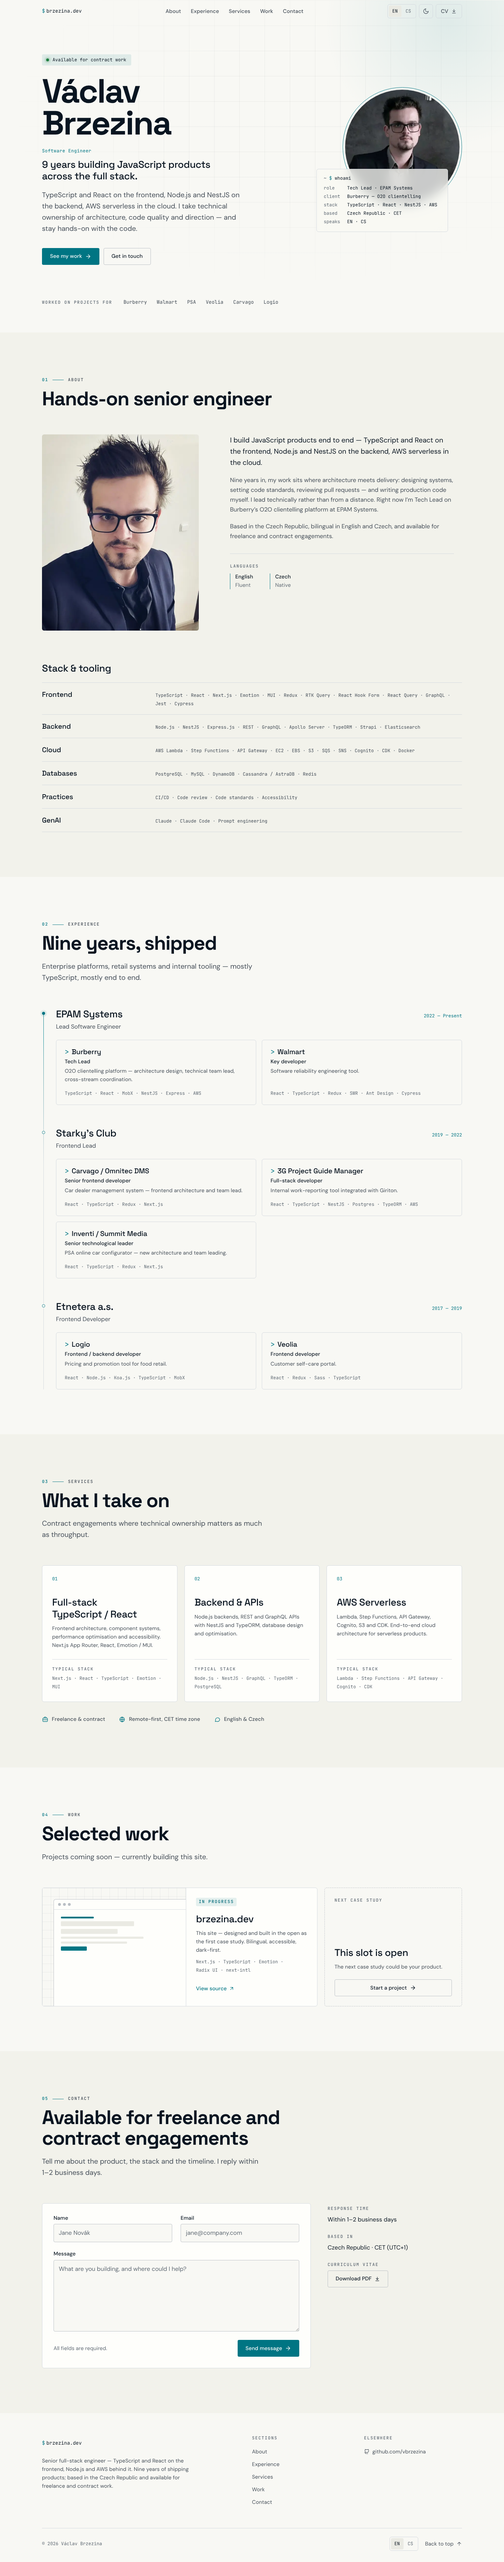
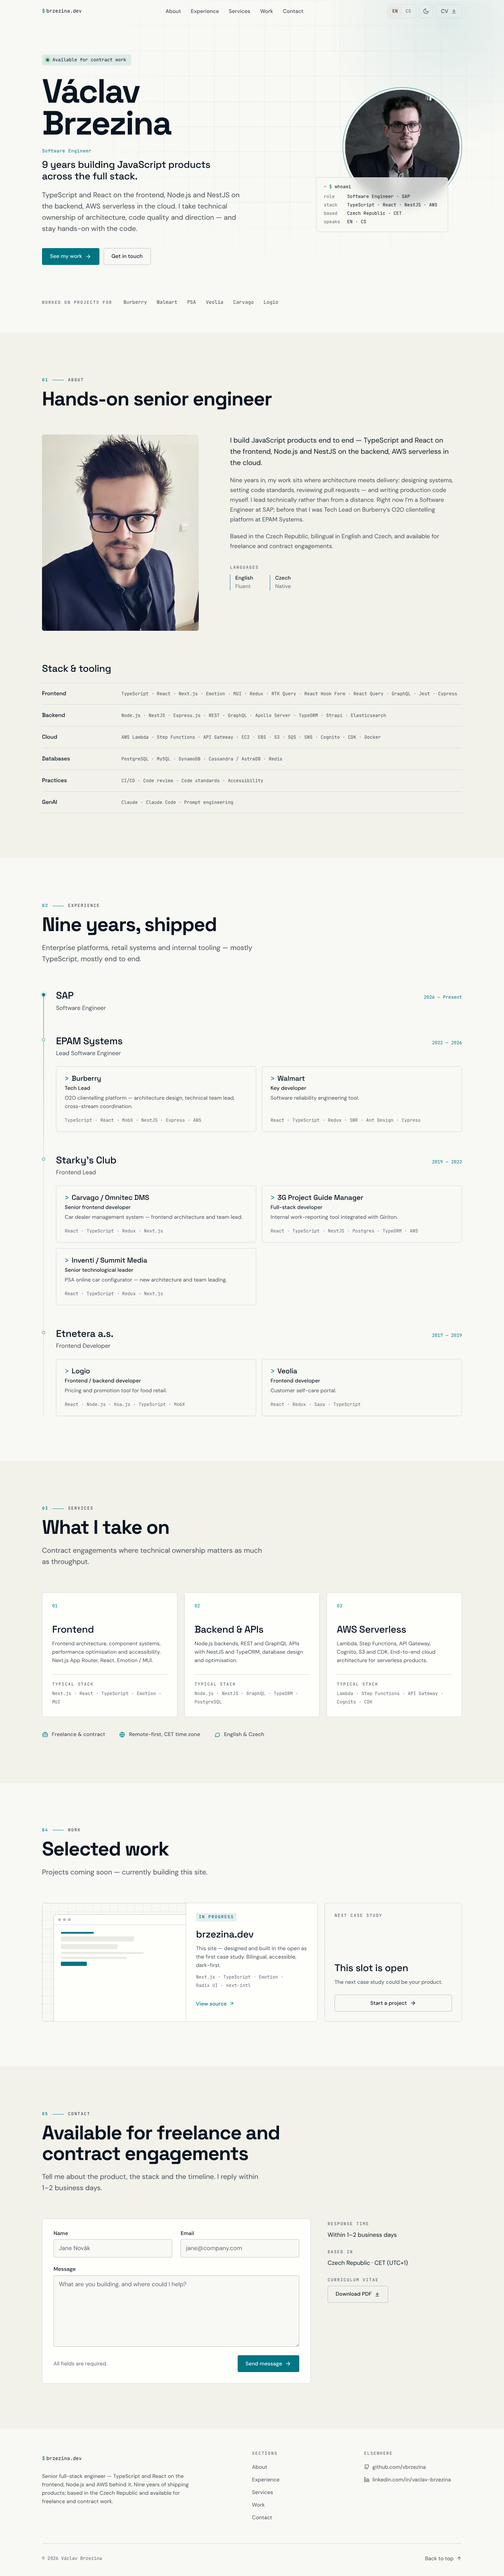
feat(content): add SAP as current role, LinkedIn link; drop footer locale switch
- Experience: SAP — Software Engineer, 2026–present (no projects listed
  yet); EPAM closed at 2026. Timeline skips the project grid when an
  employer has none
- whoami card: role "Software Engineer · SAP"; outdated client row removed
- About bio mentions SAP, with Burberry/EPAM as the previous role (EN/CS)
- LinkedIn added to the footer (with icon); the contact error fallback
  now points to LinkedIn instead of GitHub
- Footer no longer repeats the language switch — header only, like the
  theme toggle

Claude-Session: https://claude.ai/code/session_013mW6ZWY6digWVBj5YtAxDN

diff --git a/src/components/sections/Experience.tsx b/src/components/sections/Experience.tsx
@@ -178,23 +178,25 @@ export function Experience() {
                 </EmployerHeader>
               </Reveal>
 
-              <Projects role="list">
-                {employer.projects.map((project, i) => (
-                  <Reveal key={project.id} as="li" delay={i * 70}>
-                    <Project>
-                      <Client>
-                        <span aria-hidden="true">&gt;</span>
-                        {project.client}
-                      </Client>
-                      <ProjectRole>{t(`projects.${project.id}.role`)}</ProjectRole>
-                      <ProjectDescription>{t(`projects.${project.id}.description`)}</ProjectDescription>
-                      <ProjectStack>
-                        <StackList items={project.stack} label={t('stackLabel')} />
-                      </ProjectStack>
-                    </Project>
-                  </Reveal>
-                ))}
-              </Projects>
+              {employer.projects.length > 0 && (
+                <Projects role="list">
+                  {employer.projects.map((project, i) => (
+                    <Reveal key={project.id} as="li" delay={i * 70}>
+                      <Project>
+                        <Client>
+                          <span aria-hidden="true">&gt;</span>
+                          {project.client}
+                        </Client>
+                        <ProjectRole>{t(`projects.${project.id}.role`)}</ProjectRole>
+                        <ProjectDescription>{t(`projects.${project.id}.description`)}</ProjectDescription>
+                        <ProjectStack>
+                          <StackList items={project.stack} label={t('stackLabel')} />
+                        </ProjectStack>
+                      </Project>
+                    </Reveal>
+                  ))}
+                </Projects>
+              )}
             </Employer>
           ))}
         </Timeline>

diff --git a/src/components/layout/SiteFooter.tsx b/src/components/layout/SiteFooter.tsx
@@ -2,7 +2,7 @@
 
 import styled from '@emotion/styled';
 import { useTranslations } from 'next-intl';
-import { Icon, LocaleSwitch, Logo } from '@/components/ui';
+import { Icon, Logo } from '@/components/ui';
 import { SECTION_IDS, site } from '@/data/site';
 import { type } from '@/styles/typography';
 import { Container } from './Container';
@@ -107,6 +107,12 @@ export function SiteFooter() {
                   {site.githubLabel}
                 </FooterLink>
               </li>
+              <li>
+                <FooterLink href={site.linkedinUrl} target="_blank" rel="noopener noreferrer">
+                  <Icon name="linkedin" size={16} />
+                  {site.linkedinLabel}
+                </FooterLink>
+              </li>
             </LinkList>
           </div>
         </Top>
@@ -114,7 +120,6 @@ export function SiteFooter() {
         <Bottom>
           <Copyright>{t('copyright')}</Copyright>
           <BottomActions>
-            <LocaleSwitch />
             <FooterLink href="#top">
               {t('backToTop')}
               <Icon name="arrowUp" size={16} />

diff --git a/src/data/experience.ts b/src/data/experience.ts
@@ -17,10 +17,18 @@ export interface Employer {
 
 export const EXPERIENCE: readonly Employer[] = [
   {
+    id: 'sap',
+    company: 'SAP',
+    start: 2026,
+    end: null,
+    // Product details not public yet — add projects here when they can be shared.
+    projects: [],
+  },
+  {
     id: 'epam',
     company: 'EPAM Systems',
     start: 2022,
-    end: null,
+    end: 2026,
     projects: [
       { id: 'burberry', client: 'Burberry', stack: ['TypeScript', 'React', 'MobX', 'NestJS', 'Express', 'AWS'] },
       { id: 'walmart', client: 'Walmart', stack: ['React', 'TypeScript', 'Redux', 'SWR', 'Ant Design', 'Cypress'] },

diff --git a/src/components/sections/Contact.tsx b/src/components/sections/Contact.tsx
@@ -341,7 +341,7 @@ export function Contact() {
                     <SubmitError role="alert">
                       {t.rich('form.error', {
                         link: (chunks) => (
-                          <a href={site.githubUrl} target="_blank" rel="noopener noreferrer">
+                          <a href={site.linkedinUrl} target="_blank" rel="noopener noreferrer">
                             {chunks}
                           </a>
                         ),

diff --git a/src/components/sections/Hero.tsx b/src/components/sections/Hero.tsx
@@ -295,8 +295,6 @@ export function Hero() {
                 <Facts aria-label={t('whoami.label')}>
                   <dt>{t('whoami.role')}</dt>
                   <dd>{t('whoami.roleValue')}</dd>
-                  <dt>{t('whoami.client')}</dt>
-                  <dd>{t('whoami.clientValue')}</dd>
                   <dt>{t('whoami.stack')}</dt>
                   <dd>{WHOAMI.stack.join(' · ')}</dd>
                   <dt>{t('whoami.based')}</dt>

diff --git a/src/data/site.ts b/src/data/site.ts
@@ -6,6 +6,8 @@ export type SectionId = (typeof SECTION_IDS)[number];
 export const site = {
   githubUrl: 'https://github.com/vbrzezina',
   githubLabel: 'github.com/vbrzezina',
+  linkedinUrl: 'https://www.linkedin.com/in/vaclav-brzezina/',
+  linkedinLabel: 'linkedin.com/in/vaclav-brzezina',
   repoUrl: 'https://github.com/vbrzezina/brzezina.dev',
   // The PDF itself still needs adding to public/ (see redesign spec §8).
   cvUrl: '/cv.pdf',

diff --git a/src/components/ui/Icon.tsx b/src/components/ui/Icon.tsx
@@ -22,6 +22,13 @@ const PATHS = {
     </>
   ),
   check: <path d="M20 6 9 17l-5-5" />,
+  linkedin: (
+    <>
+      <path d="M16 8a6 6 0 0 1 6 6v7h-4v-7a2 2 0 0 0-4 0v7h-4v-7a6 6 0 0 1 6-6Z" />
+      <rect x="2" y="9" width="4" height="12" />
+      <circle cx="4" cy="4" r="2" />
+    </>
+  ),
   briefcase: (
     <>
       <rect x="3" y="7" width="18" height="13" rx="2" />

diff --git a/docs/design/redesign-2026-10.md b/docs/design/redesign-2026-10.md
@@ -157,8 +157,7 @@ Only `transform` and `opacity` are animated for movement. No looping animation a
 - **Right:** circular portrait (`src/assets/photos/portrait-hero.jpg`, accent ring, 1px gap) with a **`whoami` card** overlapping its lower-left edge. The card uses the nav material and blur. It turns the old "Currently Tech Lead…" sentence into scannable facts:
   ```
   ~ $ whoami
-  role     Tech Lead · EPAM Systems
-  client   Burberry — O2O clientelling
+  role     Software Engineer · SAP
   stack    TypeScript · React · NestJS · AWS
   based    Czech Republic · CET
   speaks   EN · CS
@@ -175,7 +174,7 @@ Only `transform` and `opacity` are animated for movement. No looping animation a
 - A vertical rail on the left with an accent dot per employer. The dot of the current role has a halo.
 - **Company header:** name in `titleL`, title in `bodyM` fg-secondary; period in `monoS` accent, right-aligned on desktop and above the name on mobile.
 - **Projects:** two-column grid from `lg` up (cuts the section height roughly in half). Cards in the same row share a height, with the stack line pinned to the bottom, so rows read as clean bands; across rows heights follow content (forcing one global height would pad short cards with empty space). Each project: `> Client` (`titleM`, accent `>`), role (`bodyS` fg), description (`bodyS` fg-secondary), StackList.
-- Content is the real CV: EPAM (Burberry, Walmart), Starky's Club (Carvago/Omnitec DMS, 3G Project Guide Manager, Inventi/Summit Media — PSA), Etnetera (Logio, Veolia).
+- Content is the real CV: SAP (current; header only until product details can be shared), EPAM (Burberry, Walmart), Starky's Club (Carvago/Omnitec DMS, 3G Project Guide Manager, Inventi/Summit Media — PSA), Etnetera (Logio, Veolia).
 
 ### 03 Services — "What I take on"
 - 3 equal cards (`surface`, hairline, 6px radius): `01` counter, title `titleL`, description `bodyS`, hairline, `TYPICAL STACK` eyebrow + StackList. Hover → `border-strong`, card lifts 2px.
@@ -193,9 +192,9 @@ Replace the three TBD cards with **real, honest content**:
 - **Aside (4 cols):** `<dl>` with mono labels — Response time · Based in · Curriculum vitae (secondary button "Download PDF"). GitHub lives in the footer only.
 
 ### Footer
-- Logo + a two-sentence description (role, stack, years, location, availability) · Sections column · Elsewhere (GitHub only — CV is in the nav and Contact).
-- Theme toggle lives in the header only (sticky, so always one click away); the language switch also appears in the footer bar, per the brief.
-- Bottom bar: `© 2026 Václav Brzezina` · LocaleSwitch · "Back to top ↑".
+- Logo + a two-sentence description (role, stack, years, location, availability) · Sections column · Elsewhere (GitHub + LinkedIn — CV is in the nav and Contact).
+- Theme toggle and language switch live in the header only (sticky, so always one click away; on mobile both sit in/next to the menu) — no duplicate controls in the footer.
+- Bottom bar: `© 2026 Václav Brzezina` · "Back to top ↑".
 
 ---
 
